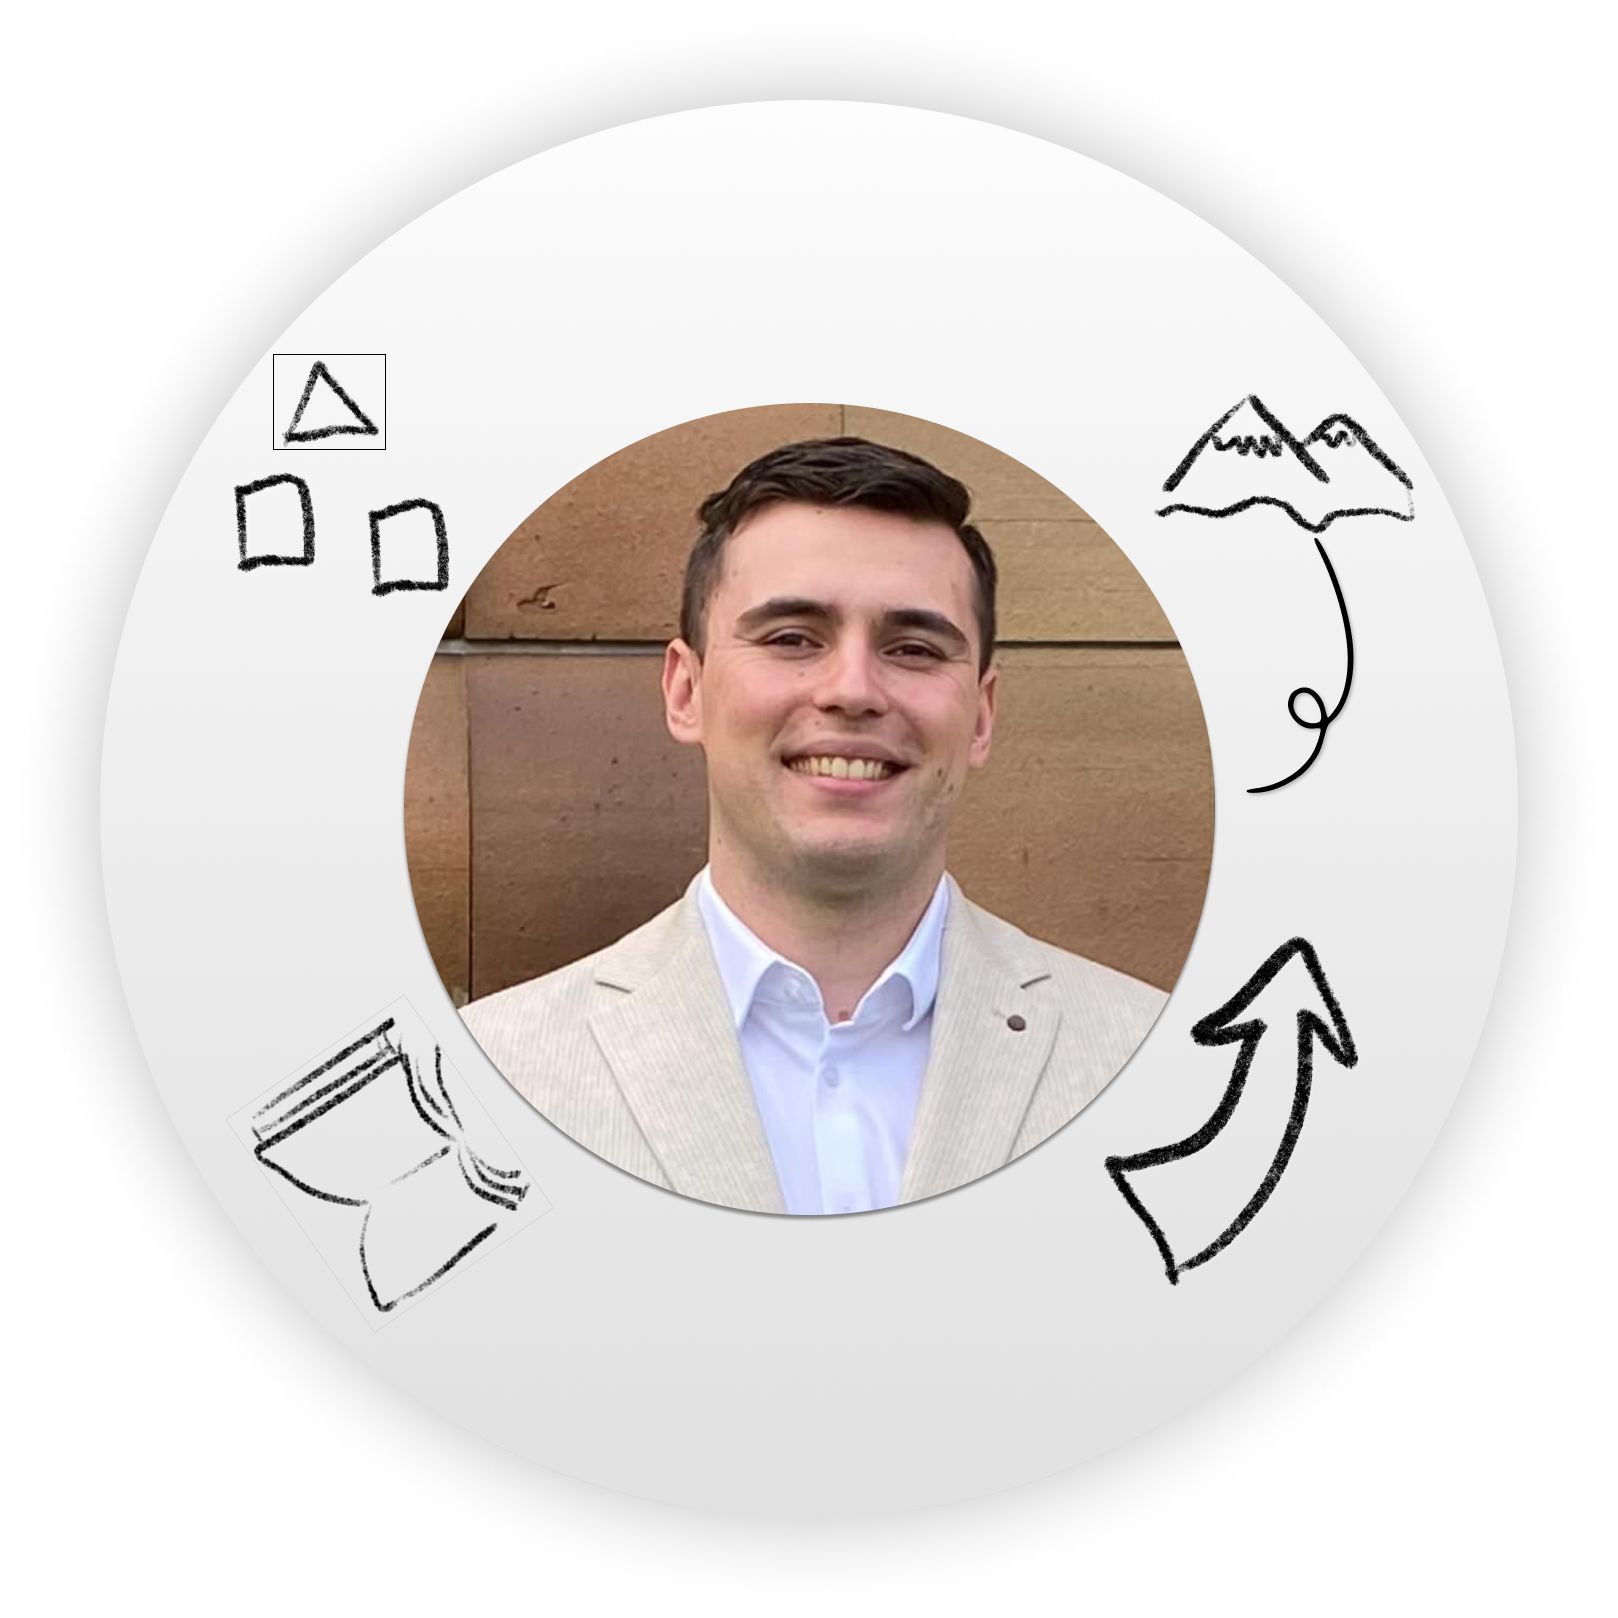
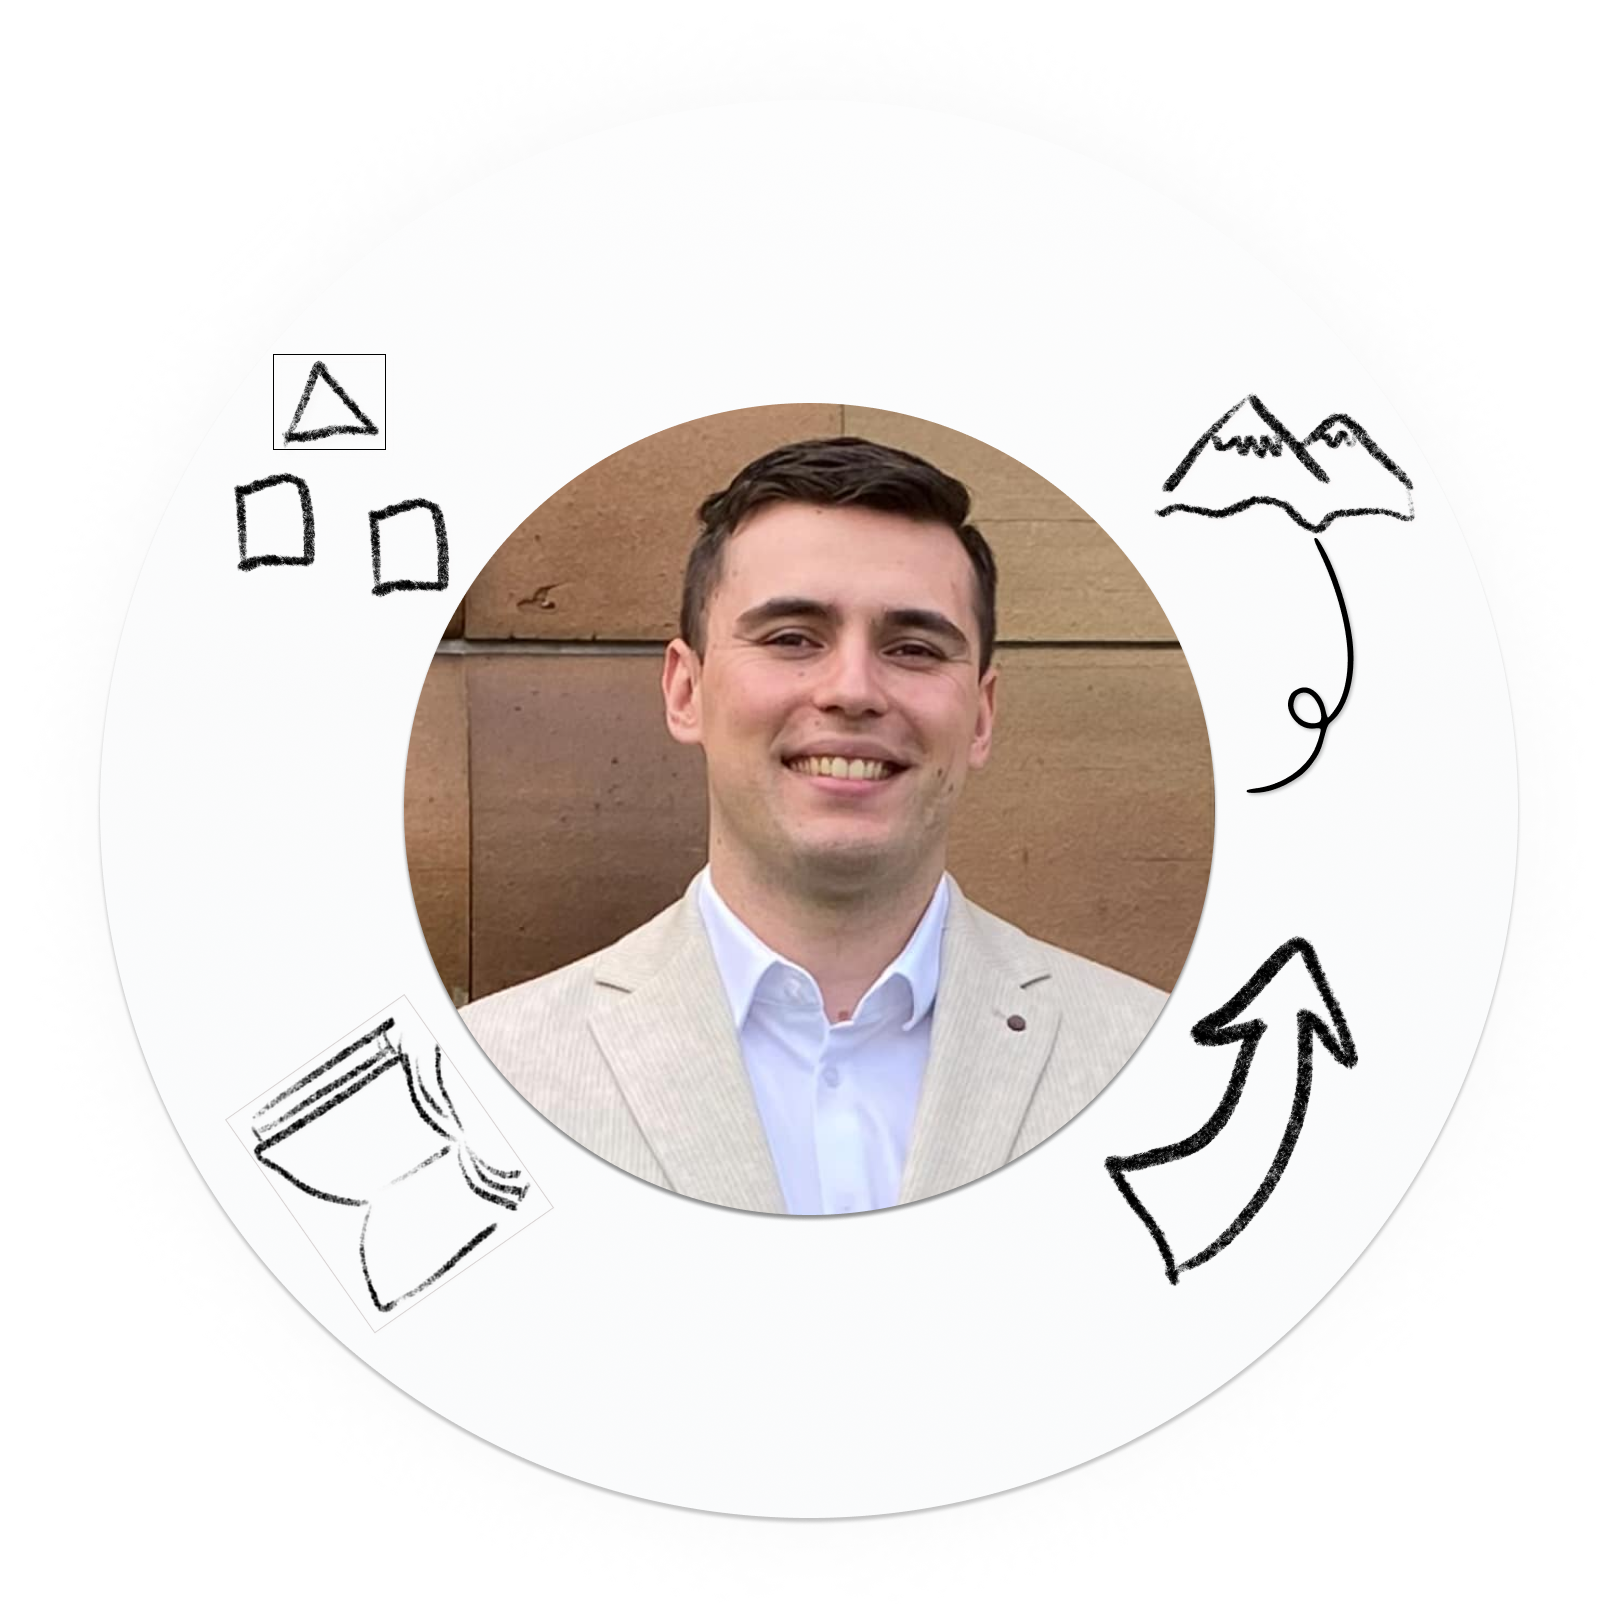
CONTACT PAGE : inštalácia EmailJS, vyplneneie formulára, implementácia zod a kontrola formulárov, vyrobenie formulára z Figmy, pridané štýly na projekte cez tailwind

Changed region(s): [[0.2163, 0.8035, 0.8035, 0.958], [0.7726, 0.1545, 0.8035, 0.1854]]

diff --git a/src/app/contact/components/ContactSection.tsx b/src/app/contact/components/ContactSection.tsx
@@ -1,0 +1,65 @@
+"use client";
+import { useEmailSubmit } from "./../hooks/useEmailSubmit";
+import { Toaster } from "react-hot-toast";
+
+export default function ContactSection() {
+  const { formRef, register, handleSubmit, errors, isSubmitting } = useEmailSubmit();
+
+  return (
+    <section className="w-full px-6 py-12 relative">
+      <Toaster position="top-center" reverseOrder={false} />
+      <div className="max-w-6xl mx-auto flex justify-center flex-col md:flex-row items-center gap-10">
+        <div className="w-full md:w-1/2">
+          <h2 className="h2">Get in touch</h2>
+          <p className="p">We are here for you! How can we help?</p>
+
+          <form ref={formRef} onSubmit={handleSubmit} className="space-y-4">
+            <div>
+              <input
+                type="text"
+                placeholder="Name"
+                {...register("user_name")}
+                className="w-full border border-gray-300 rounded px-4 py-2 focus:outline-none focus:ring-2 focus:ring-black"
+              />
+              {errors.user_name && (
+                <p className="text-red-500 text-sm mt-1">{errors.user_name.message}</p>
+              )}
+            </div>
+
+            <div>
+              <input
+                type="email"
+                placeholder="Email"
+                {...register("user_email")}
+                className="w-full border border-gray-300 rounded px-4 py-2 focus:outline-none focus:ring-2 focus:ring-black"
+              />
+              {errors.user_email && (
+                <p className="text-red-500 text-sm mt-1">{errors.user_email.message}</p>
+              )}
+            </div>
+
+            <div>
+              <textarea
+                placeholder="Message"
+                rows={4}
+                {...register("message")}
+                className="w-full border border-gray-300 rounded px-4 py-2 focus:outline-none focus:ring-2 focus:ring-black"
+              />
+              {errors.message && (
+                <p className="text-red-500 text-sm mt-1">{errors.message.message}</p>
+              )}
+            </div>
+
+            <button
+              type="submit"
+              className="btn-gradient"
+              disabled={isSubmitting}
+            >
+              {isSubmitting ? "Odosielam..." : "Submit"}
+            </button>
+          </form>
+        </div>
+      </div>
+    </section>
+  );
+}

diff --git a/src/app/globals.css b/src/app/globals.css
@@ -20,7 +20,7 @@
 
 @media (prefers-color-scheme: dark) {
   :root {
-    --background: #0f172a;
+    --background: #192541;
     --foreground: #f1f5f9;
     --accent: #7c3aed;
     --accent-hover: #a78bfa;
@@ -46,4 +46,67 @@ body {
   display: inline-block;
   animation: wave 2s infinite;
   transform-origin: 70% 70%;
+}
+
+@layer components {
+  .btn-gradient {
+    @apply relative overflow-hidden text-white font-bold py-2 px-6 rounded-full transition-all duration-300 cursor-pointer transform hover:scale-105 active:scale-100 active:translate-y-1;
+    background: linear-gradient(to right, #4F46E5, #9333EA);
+  }
+
+  .btn-gradient::before {
+    content: "";
+    position: absolute;
+    top: 0;
+    left: -75%;
+    width: 50%;
+    height: 100%;
+    background: linear-gradient(
+      120deg,
+      rgba(255, 255, 255, 0.3),
+      rgba(255, 255, 255, 0.0)
+    );
+    transform: skewX(-25deg);
+  }
+
+  .btn-gradient:hover::before {
+    animation: shine 0.8s forwards;
+  }
+
+  @keyframes shine {
+    0% {
+      left: -75%;
+    }
+    100% {
+      left: 125%;
+    }
+  }
+
+
+  @layer components {
+    h1, .h1 {
+      @apply text-5xl font-extrabold leading-tight text-transparent bg-clip-text bg-gradient-to-r from-purple-500 to-indigo-600;
+    }
+  
+    h2, .h2 {
+      @apply text-3xl font-bold leading-snug text-indigo-400 hover:text-indigo-300 transition-colors duration-300;
+    }
+  
+    p, .p {
+      @apply text-gray-400 text-base sm:text-lg;
+    }
+  
+    .text-muted {
+      @apply text-sm text-gray-400 italic;
+    }
+  
+    .highlight {
+      @apply text-yellow-400 font-semibold;
+    }
+  
+    .gradient-text {
+      @apply text-transparent bg-clip-text bg-gradient-to-r from-indigo-400 via-purple-400 to-pink-400;
+    }
+  }
+  
 }

diff --git a/src/app/contact/hooks/useEmailSubmit.tsx b/src/app/contact/hooks/useEmailSubmit.tsx
@@ -1,0 +1,55 @@
+"use client";
+
+import { useRef } from "react";
+import emailjs from "emailjs-com";
+import { useForm } from "react-hook-form";
+import { z } from "zod";
+import { zodResolver } from "@hookform/resolvers/zod";
+import { toast } from "react-hot-toast";
+
+const ContactSchema = z.object({
+  user_name: z.string().min(2, "Meno je povinné"),
+  user_email: z.string().email("Neplatný email"),
+  message: z.string().min(5, "Správa musí mať aspoň 5 znakov"),
+});
+
+type ContactFormInputs = z.infer<typeof ContactSchema>;
+
+export function useEmailSubmit() {
+  const formRef = useRef<HTMLFormElement>(null);
+
+  const {
+    register,
+    handleSubmit,
+    formState: { errors, isSubmitting },
+    reset,
+  } = useForm<ContactFormInputs>({
+    resolver: zodResolver(ContactSchema),
+  });
+
+  const onSubmit = async (data: ContactFormInputs) => {
+    if (!formRef.current) return;
+
+    try {
+      await emailjs.sendForm(
+        "service_o5db5oa",
+        "template_jnebamv",
+        formRef.current,
+        "kyrCn2xD_cuyh5mJO"
+      );
+      toast.success("Správa bola úspešne odoslaná ✉");
+      reset();
+    } catch (error) {
+      console.error("Chyba pri odosielaní:", error);
+      toast.error("Nepodarilo sa odoslať správu ❌");
+    }
+  };
+
+  return {
+    formRef,
+    register,
+    handleSubmit: handleSubmit(onSubmit),
+    errors,
+    isSubmitting,
+  };
+}

diff --git a/src/app/contact/page.tsx b/src/app/contact/page.tsx
@@ -1,35 +1,7 @@
+import ContactSection from "./components/ContactSection";
 export default function Contact() {
     return (
-      <main className="max-w-5xl mx-auto px-6 py-16">
-        <h2 className="text-3xl font-bold text-accent mb-6">Kontakt</h2>
-  
-        <form className="grid gap-4 max-w-md">
-          <input
-            type="text"
-            placeholder="Tvoje meno"
-            className="border border-muted rounded px-4 py-2 bg-background text-foreground"
-          />
-          <input
-            type="email"
-            placeholder="Tvoj email"
-            className="border border-muted rounded px-4 py-2 bg-background text-foreground"
-          />
-          <textarea
-            placeholder="Správa"
-            className="border border-muted rounded px-4 py-2 bg-background text-foreground resize-none h-32"
-          ></textarea>
-          <button
-            type="submit"
-            className="bg-accent hover:bg-accent-hover text-white px-4 py-2 rounded transition"
-          >
-            Odoslať
-          </button>
-        </form>
-  
-        <div className="mt-10 text-muted text-sm">
-          Alebo ma kontaktuj cez e-mail: <a href="mailto:arny@example.com" className="text-accent hover:underline">arny@example.com</a>
-        </div>
-      </main>
+      <ContactSection/>
     );
   }
   

diff --git a/src/app/page.tsx b/src/app/page.tsx
@@ -5,7 +5,7 @@ import HeroSection from "@/app/components/HeroSection";
 
 export default function Home() {
   return (
-    <main className="flex flex-col items-center min-h-[calc(100vh-64px)] px-4 pt-16 pb-8 bg-[#0a0f24] text-white">
+    <main className="flex flex-col items-center min-h-[calc(100vh-64px)] px-4 pt-16 pb-8  text-white">
       <section className="flex flex-col sm:flex-row items-center justify-center gap-12 sm:gap-20 w-full">
         <HeroSection />
         <div className="flex justify-center items-center w-full sm:w-[350px]">
@@ -18,7 +18,7 @@ export default function Home() {
         <h2 className="text-3xl sm:text-4xl font-bold text-purple-500 mb-4">
           Vitaj v mojom portfóliu
         </h2>
-        <p className="text-gray-400 text-base sm:text-lg">
+        <p>
           Som moderný vývojár so zameraním na Next.js, Tailwind CSS a moderné animácie.
         </p>
       </section>

diff --git a/src/app/about/page.tsx b/src/app/about/page.tsx
@@ -1,8 +1,8 @@
 export default function About() {
     return (
       <main className="max-w-5xl mx-auto px-6 py-16">
-        <h2 className="text-3xl font-bold text-accent mb-6">O mne</h2>
-        <p className="text-base leading-relaxed text-muted">
+        <h2>O mne</h2>
+        <p>
           Volám sa Juraj a som frontend developer so zameraním na moderné webové technológie ako Next.js, Tailwind CSS a React.
           Verím v jednoduchosť, čistý dizajn a výkonné používateľské rozhrania. Aktuálne sa zameriavam na zlepšovanie svojich schopností
           a vytváranie projektov, ktoré majú zmysel.
